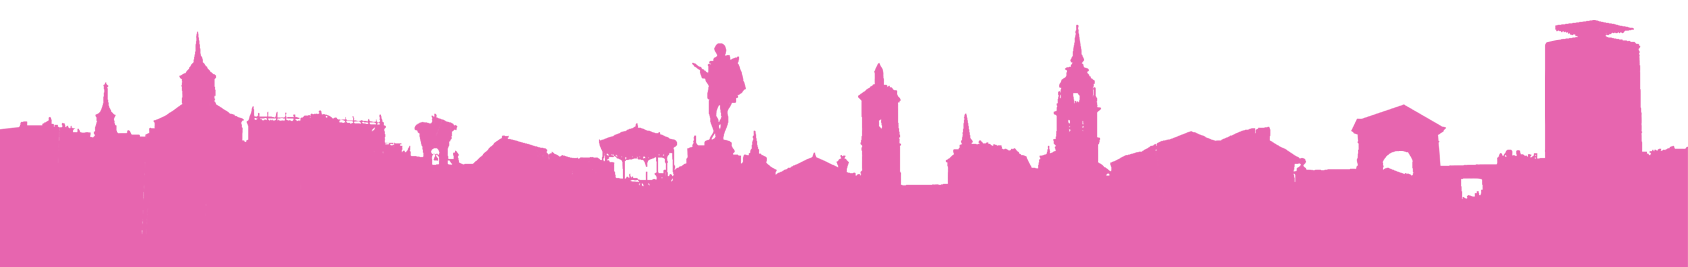
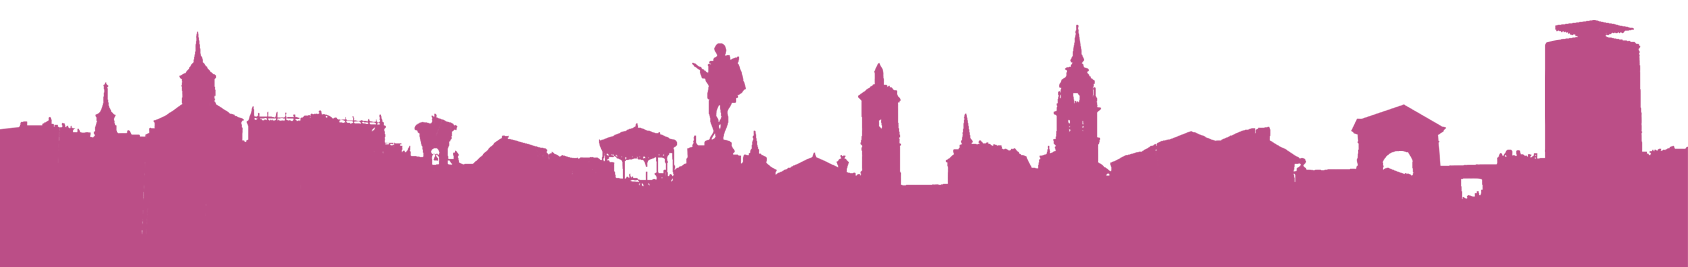
Updating final styles

diff --git a/templates/base.html b/templates/base.html
@@ -24,7 +24,7 @@
         <link rel="stylesheet" href="https://cdnjs.cloudflare.com/ajax/libs/select2/4.0.3/css/select2.min.css" crossorigin="anonymous">
         <link rel="stylesheet" href="https://maxcdn.bootstrapcdn.com/font-awesome/4.7.0/css/font-awesome.min.css" crossorigin="anonymous">
         <link href="https://fonts.googleapis.com/css?family=Kodchasan:700|Oswald:400,600|Raleway&display=swap" rel="stylesheet">
-        <link href="{% static "css/styles.css" %}?v=31" rel="stylesheet"/>
+        <link href="{% static "css/styles.css" %}?v=32" rel="stylesheet"/>
         {% block extra_styles %}{% endblock extra_styles %}
 
         <link rel="apple-touch-icon" sizes="180x180" href="{% static 'favicon/apple-touch-icon.png' %}">
@@ -50,7 +50,7 @@
               </button>
               <a class="navbar-brand" href="{% url 'index' %}">
 
-                  <img class="img-responsive" src="{% static "img/icon-logo.png" %}?v=3">
+                  <img class="img-responsive" src="{% static "img/icon-logo.png" %}?v=4">
               </a>
                 <span class="navbar-brand-text hidden-sm hidden-md hidden-lg"></span>
             </div>
@@ -62,7 +62,7 @@
                   {% if CONTEST_ACTIVE %}
                       <li {% if request.resolver_match.url_name == "bases" %}class="active"{% endif %}><a href="{% url 'bases' %}">Bases del Concurso</a></li>
                       {% if not CONTEST_CLOSED %}
-                      <!--<li {% if request.resolver_match.url_name == "contest_signup" %}class="active"{% endif %}><a href="{% url 'contest_signup' %}">Inscripción</a></li>-->
+                      <li {% if request.resolver_match.url_name == "contest_signup" %}class="active"{% endif %}><a href="{% url 'contest_signup' %}">Inscripción</a></li>
                       {% endif %}
                   {% endif %}
 
@@ -74,7 +74,7 @@
                       {% endif %}
                       <li {% if request.resolver_match.url_name == "contest_index" %}class="active"{% endif %}><a href="{% url 'contest_index' %}">Concurso</a></li>
                   {% else %}
-                      <!--<li {% if request.resolver_match.url_name == "contest_entries_list" %}class="active"{% endif %}><a href="{% url 'contest_entries_list' %}">Bandas</a></li>-->
+                      <li {% if request.resolver_match.url_name == "contest_entries_list" %}class="active"{% endif %}><a href="{% url 'contest_entries_list' %}">Bandas</a></li>
                   {% endif %}
 
                   {% if perms.contest.can_mange_jury %}

diff --git a/static/css/styles.css b/static/css/styles.css
@@ -356,7 +356,7 @@ body{
 footer{
     margin-top:0;
     padding: 3em 0;
-    background-color: #e765af;
+    background-color: #bb4e87;
     color:#fefefe;
 }
 .lead span{ font-size:0.9em; }
@@ -364,7 +364,7 @@ footer{
 footer .img-responsive{ max-width:80%; margin:auto; }
 .btn.btn-primary{
     box-shadow: 0 2px 2px 0 rgba(0,0,0,0.14), 0 1px 5px 0 rgba(0,0,0,0.12), 0 3px 1px -2px rgba(0,0,0,0.2);
-    background-color: #40474a;
+    background-color: #660a05;
     border-radius:2px;
     border:none;
     text-transform: uppercase;
@@ -373,7 +373,7 @@ footer .img-responsive{ max-width:80%; margin:auto; }
     margin-bottom:1em;
     font-family: 'Oswald';
 }
-.btn.btn-primary:hover{ background-color: #5e686d; }
+.btn.btn-primary:hover{ background-color: #7e0d45; }
 .btn.btn-primary .fa.left{ margin-right:10px;}
 .btn.btn-primary .fa.right{ margin-left:10px;}
 .btn.btn-primary.red{

diff --git a/templates/index.html b/templates/index.html
@@ -132,7 +132,7 @@
                 ¿Quieres tocar en <strong>Alcalá Suena 2021</strong> ?<br>
                 Desde el 25 de marzo hasta el 18 de abril estará abierto el plazo de inscripción de bandas para formar parte del cartel, con diferentes premios en metálico para todas las bandas seleccionadas.
                     </span></p>
-                <!--<a href="{% url 'contest_signup' %}" class="btn btn-primary btn-lg">Inscríbete!</a>-->
+                <a href="{% url 'contest_signup' %}" class="btn btn-primary btn-lg">Inscríbete!</a>
             </div>
             {% else %}
             <div class="col-sm-12"><hr></div>
